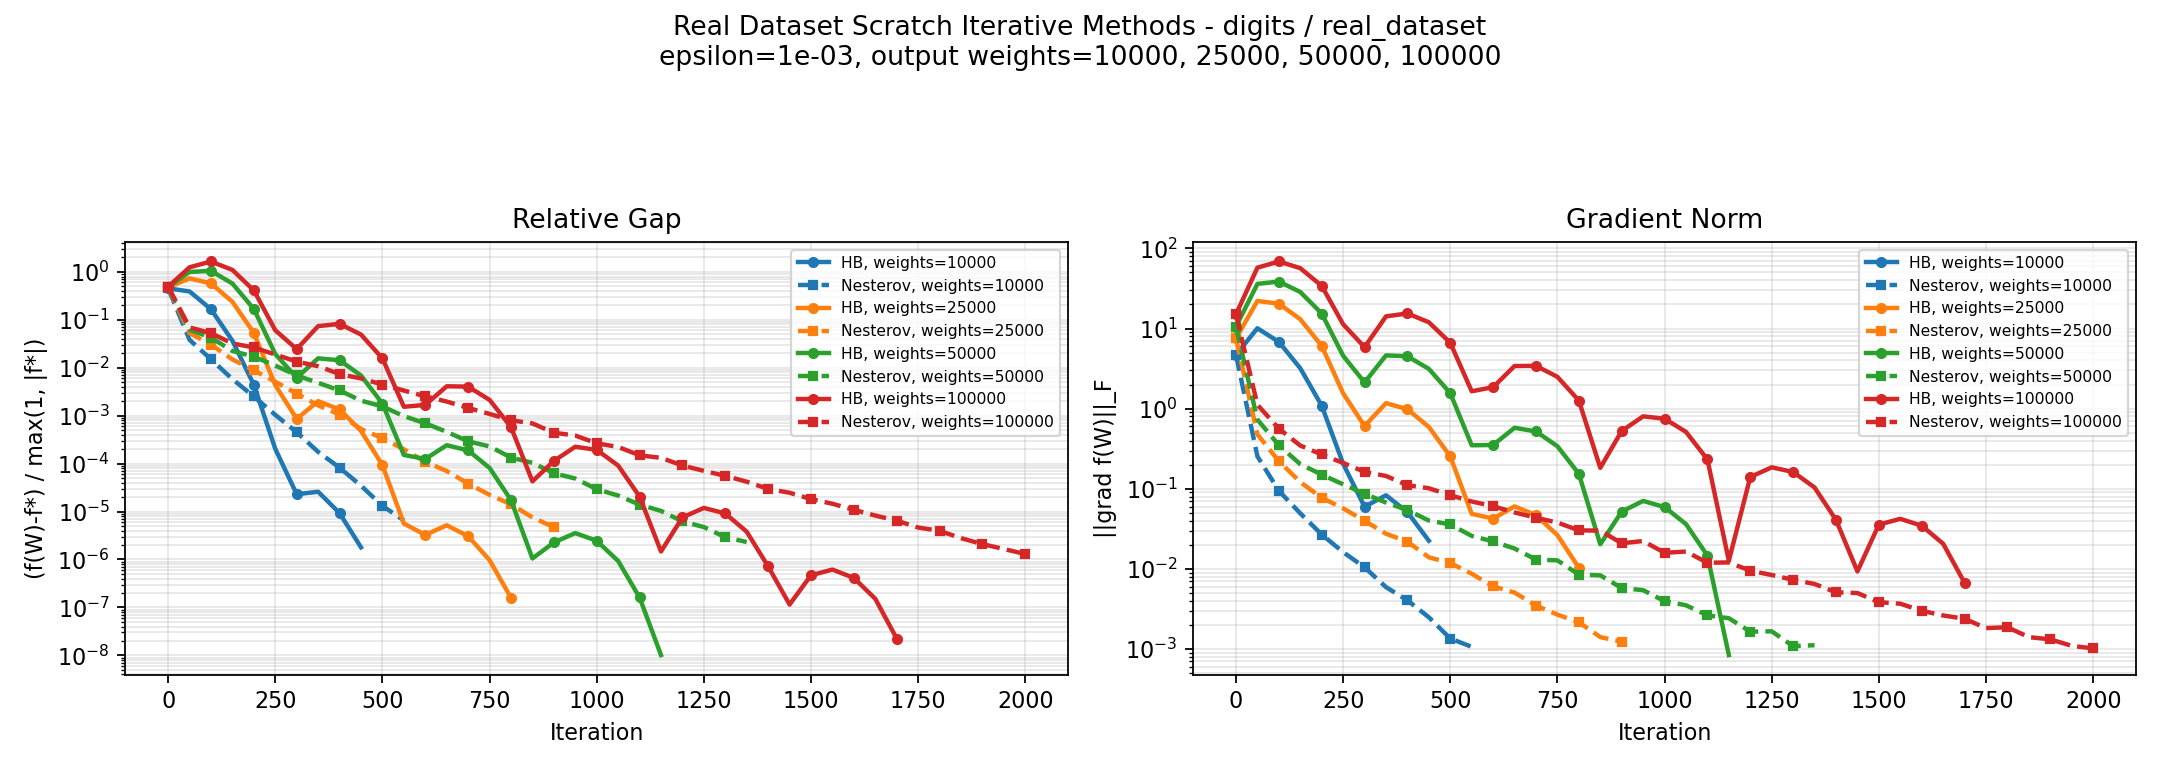
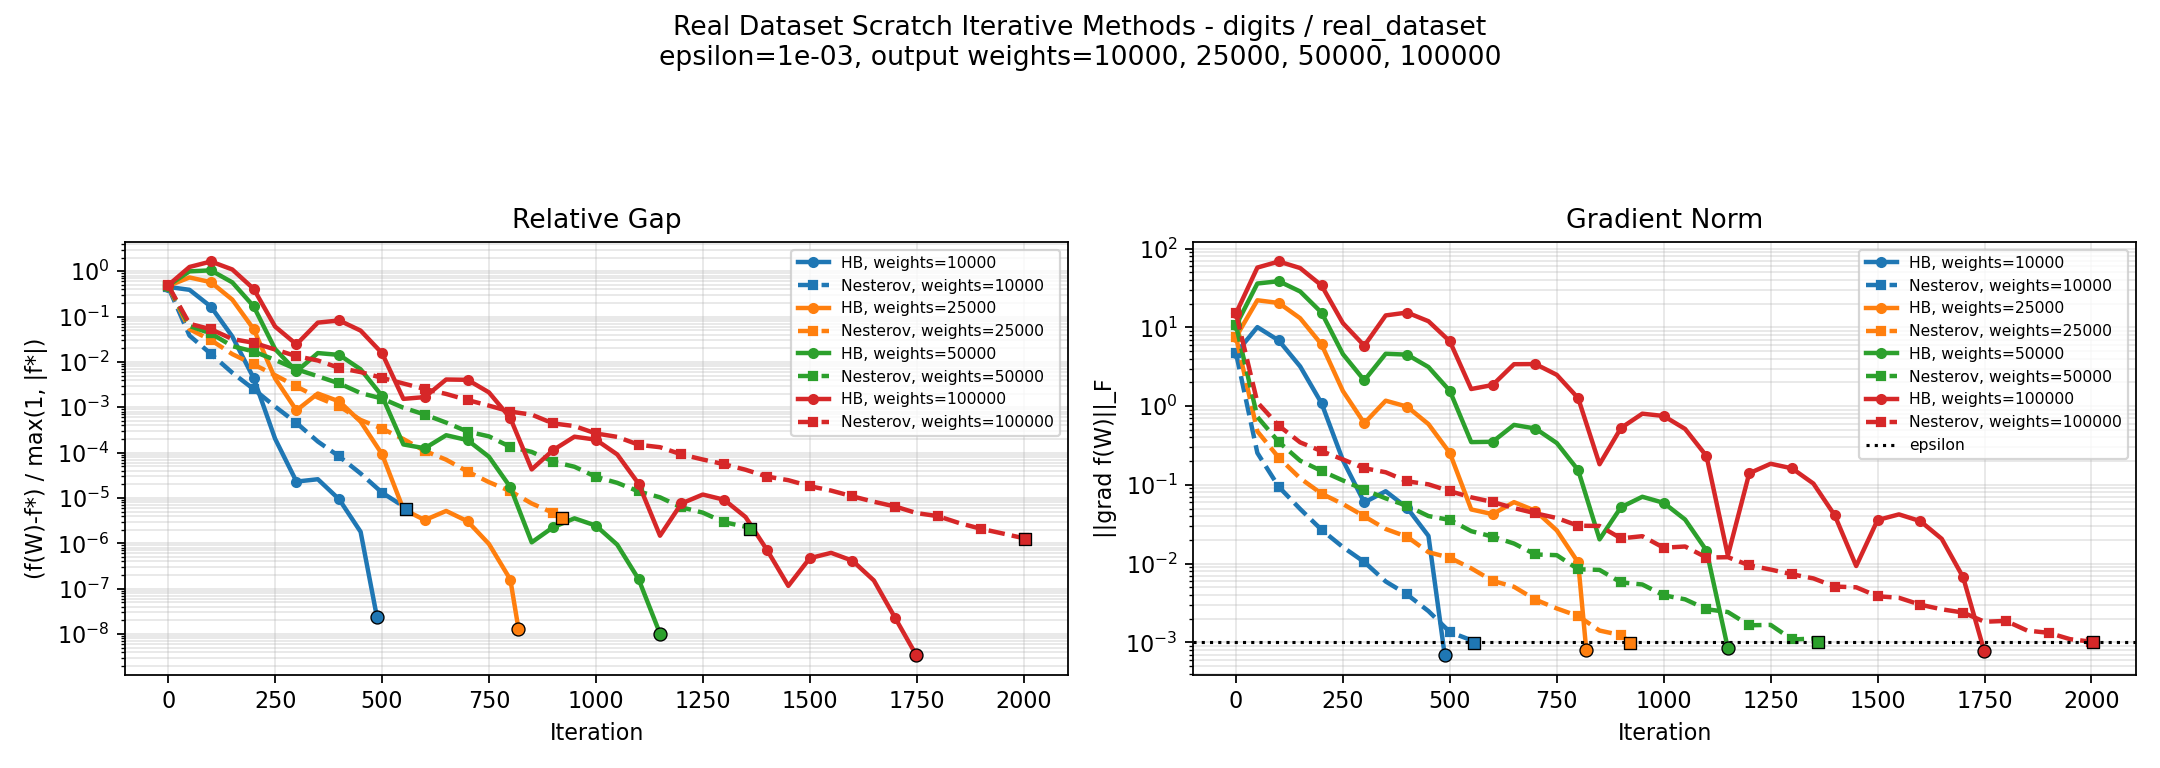
nesterov modified

diff --git a/run_experiments.py b/run_experiments.py
@@ -656,7 +656,7 @@ def main():
         return
 
     if args.only_handwritten_dimension_scaling:
-        epsilon = 1e-3
+        epsilon = args.tol
         scaling_max_iter = choose_handwritten_scaling_max_iter(args.max_iter)
         rows, scratch_history_rows = run_handwritten_dimension_scaling(
             seed=args.seed,
@@ -6389,6 +6389,16 @@ def plot_requested_real_digits_scratch_iterative_scaling(
                 linewidth=2.0,
                 markersize=4,
             )
+            axes[0].scatter(
+                [iterations[-1]],
+                [relative_gaps[-1]],
+                color=color,
+                marker=marker,
+                s=34,
+                edgecolors="black",
+                linewidths=0.6,
+                zorder=5,
+            )
             axes[1].semilogy(
                 iterations,
                 gradient_norms,
@@ -6400,6 +6410,16 @@ def plot_requested_real_digits_scratch_iterative_scaling(
                 linewidth=2.0,
                 markersize=4,
             )
+            axes[1].scatter(
+                [iterations[-1]],
+                [gradient_norms[-1]],
+                color=color,
+                marker=marker,
+                s=34,
+                edgecolors="black",
+                linewidths=0.6,
+                zorder=5,
+            )
 
     axes[0].set_title("Relative Gap")
     axes[0].set_xlabel("Iteration")
@@ -6408,6 +6428,13 @@ def plot_requested_real_digits_scratch_iterative_scaling(
     axes[1].set_title("Gradient Norm")
     axes[1].set_xlabel("Iteration")
     axes[1].set_ylabel("||grad f(W)||_F")
+    axes[1].axhline(
+        epsilon,
+        color="black",
+        linestyle=":",
+        linewidth=1.4,
+        label="epsilon",
+    )
 
     for axis in axes:
         axis.grid(True, which="both", alpha=0.3)

diff --git a/elm_optimization/algorithms.py b/elm_optimization/algorithms.py
@@ -388,6 +388,15 @@ def heavy_ball(
         previous_weights = weights
         weights = next_weights
 
+    _record_final_history_if_needed(
+        history,
+        iterations,
+        weights,
+        final_grad_norm,
+        objective_fn,
+        reference_weights,
+    )
+
     elapsed = perf_counter() - start
 
     return OptimizationResult(
@@ -468,6 +477,15 @@ def nesterov_accelerated_gradient(
         previous_weights = weights
         weights = next_weights
 
+    _record_final_history_if_needed(
+        history,
+        iterations,
+        final_evaluation_point,
+        final_grad_norm,
+        objective_fn,
+        reference_weights,
+    )
+
     elapsed = perf_counter() - start
 
     return OptimizationResult(
@@ -544,3 +562,28 @@ def _record_history(
         numerator = frobenius_norm(weights - reference_weights)
         denominator = max(1.0, frobenius_norm(reference_weights))
         history["relative_error"].append(numerator / denominator)
+
+
+def _record_final_history_if_needed(
+    history,
+    iteration,
+    weights,
+    grad_norm,
+    objective_fn,
+    reference_weights,
+):
+    """Always save the final iterate used by the stopping test."""
+
+    if len(history["iteration"]) > 0:
+        last_iteration = int(history["iteration"][-1])
+        if last_iteration == int(iteration):
+            return
+
+    _record_history(
+        history,
+        iteration,
+        weights,
+        grad_norm,
+        objective_fn,
+        reference_weights,
+    )
